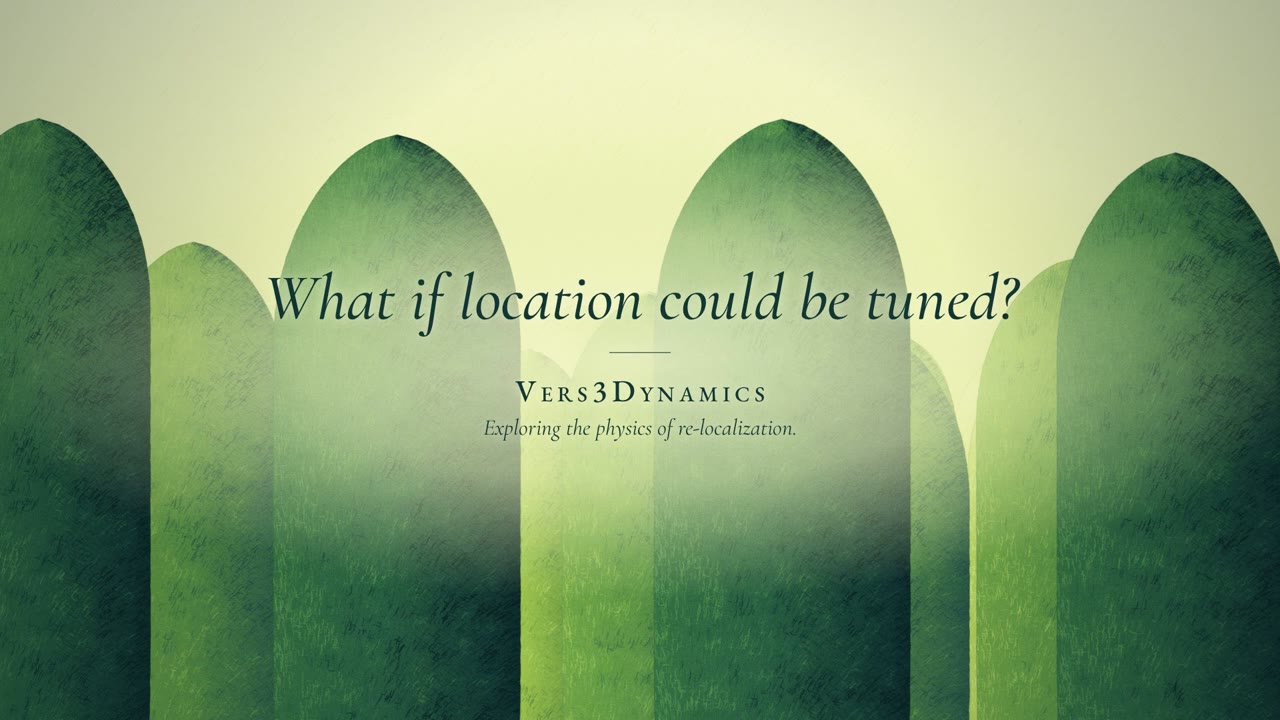
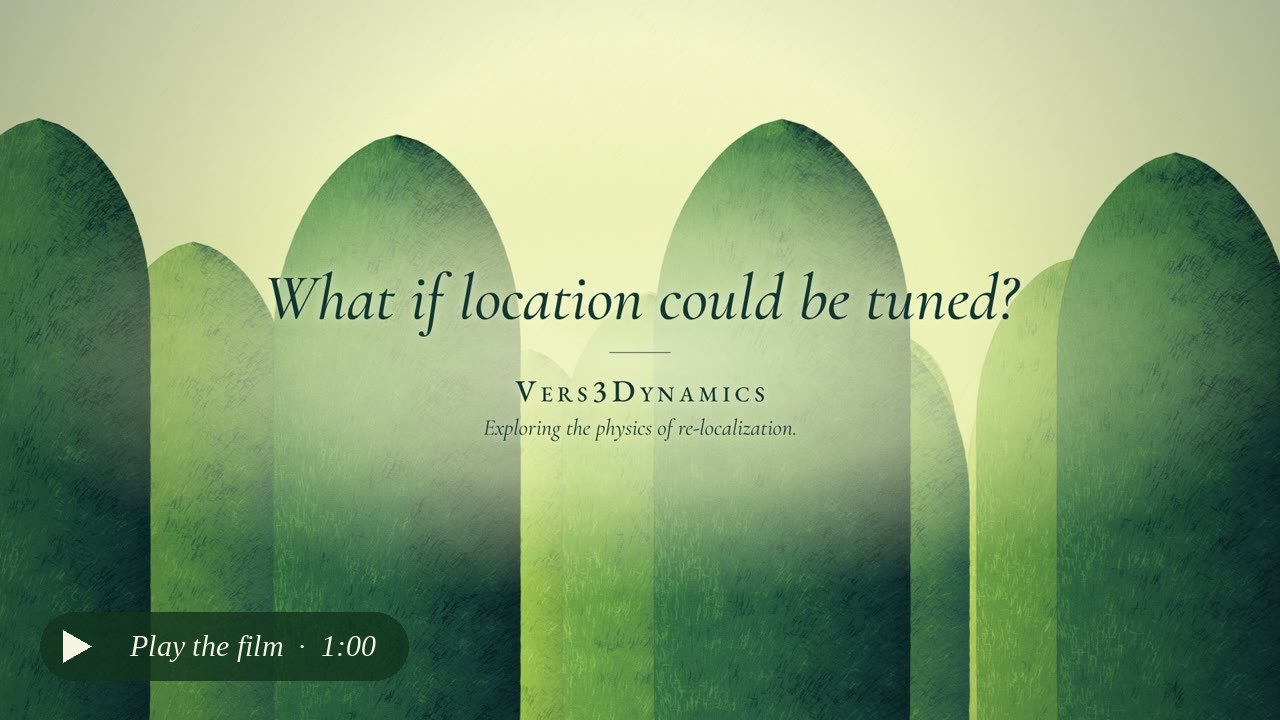
docs: open the film from a title frame, since GitHub strips video players from READMEs

Changed region(s): [[0.0938, 0.825, 0.3125, 0.9472], [0.0312, 0.8861, 0.0625, 0.9167]]

diff --git a/README.md b/README.md
@@ -18,13 +18,11 @@ Dynamic Resonance Rooting (DRR) is an open-source Python research framework for 
 
 ## Film: The Mathematics of Where
 
-<video src="https://raw.githubusercontent.com/topherchris420/dynamic-resonance-rooting/main/assets/film/the-mathematics-of-where-60s.mp4" controls width="100%"></video>
+[![The Mathematics of Where, title card: "What if location could be tuned?" Select to play the 60-second film.](assets/film/the-mathematics-of-where-poster.jpg)](https://dynamic-resonance-rooting.vercel.app/assets/film/the-mathematics-of-where-60s.mp4)
 
-<video src="https://github.com/topherchris420/dynamic-resonance-rooting/raw/main/assets/film/the-mathematics-of-where-60s.mp4" controls></video>
+A 60-second animated film from Vers3Dynamics. Two cyclists ride through a garden of tall hedges while the film asks whether location could be encoded as frequency, sketches a field that shifts the odds of finding something at one of two places, A or B, and lists seven conditions physics would have to permit, each one testable. It ends on the question it opens: what if location could be tuned? The film poses questions and shows no result; DRR does not test these ideas.
 
-A 60-second animated film from Vers3Dynamics. Two cyclists ride through a garden of tall hedges while the film asks whether location could be encoded as frequency, sketches a field that shifts the odds of finding something at one of two places, A or B, and lists seven conditions physics would have to permit, each one testable. It ends on the question it opens: what if location could be tuned? The film poses questions and shows no result; DRR does not test these ideas. Turn the sound on for the score.
-
-If the player does not load, [open the MP4](assets/film/the-mathematics-of-where-60s.mp4) (1280×720, 12.6 MB).
+Select the image to play the film in your browser, with sound. The MP4 (1280×720, 12.6 MB) is also in the repository at [`assets/film/the-mathematics-of-where-60s.mp4`](assets/film/the-mathematics-of-where-60s.mp4).
 
 <a id="what-it-does"></a>
 
